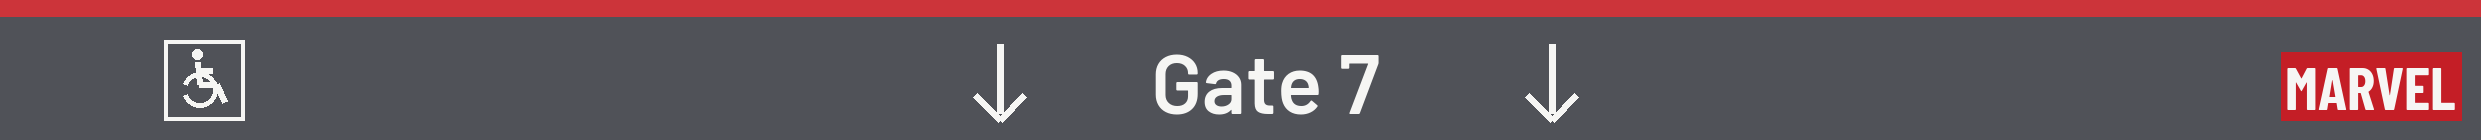
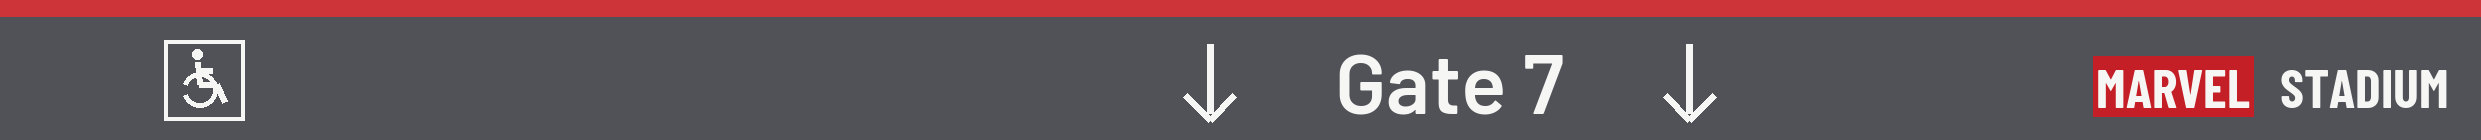
Marvel Gate 7: Nov 2026 exterior fixes and the Level 1 concourse behind the doors
Part of row 202. Plain cladding, MARVEL STADIUM sign wording, Gate 7 text and arrow spacing, slate column
labels and CCTV from Nov 2026 footage; the dark vestibule is replaced by the concourse floor, white ceiling
band with downlights, bulkhead and lower-tier railing.

Changed region(s): [[0.4655, 0.3714, 0.7138, 0.8571], [0.838, 0.3714, 0.9931, 0.8857], [0.3724, 0.6857, 0.4345, 0.8286]]

diff --git a/tools/grounds/marvel/gates.py b/tools/grounds/marvel/gates.py
@@ -352,38 +352,20 @@ def _stage1():
     # ------------------------------------------------------------ Gate 7 textures
     RED = (204, 52, 58)          # the red top stripes (sign band, booth headers, column wraps)
     SIGN_GREY = (80, 82, 88)
+    LABEL_SLATE = (78, 84, 104)  # the column labels are bluer than the band (vid2026_t422 sampled)
     WHITE = (246, 246, 244)
     CLAD = (150, 152, 158)
 
-    def tri_clad(name, W_, H_, px=80, seed=7):
-        """The triangle cladding (g7_doors2019, g7_ticketbay2019): light grey panels with faint joints, crossed
-        by long white lines 8 cm wide that meet at nodes. Tiles across, spans the full 4.6 m height."""
-        r = np.random.default_rng(seed)
+    def tri_clad(name, W_, H_, px=80):
+        """The cladding round the doors and booths: light grey panels with faint joints. The white line
+        graphic of 2019 (g7_doors2019, g7_ticketbay2019) is gone in Nov 2026 (vid2026_t422, t429, t441):
+        the walls and booth fronts are plain."""
         im = Image.new("RGB", (int(W_ * px), int(H_ * px)), CLAD)
         dr = ImageDraw.Draw(im)
         for x in np.arange(0, W_, 0.75):
             dr.line([(x * px, 0), (x * px, H_ * px)], fill=(140, 142, 148), width=1)
         for y in np.arange(0, H_, 1.15):
             dr.line([(0, y * px), (W_ * px, y * px)], fill=(140, 142, 148), width=1)
-        nodes = [(r.uniform(0, W_), r.uniform(0.3, H_ - 0.3)) for _ in range(9)]
-        ends = [(r.uniform(0, W_), 0.0) for _ in range(4)] + [(r.uniform(0, W_), H_) for _ in range(4)]
-
-        def wrap_d2(p, q):
-            return min(abs(q[0] - p[0] + s * W_) for s in (-1, 0, 1)) ** 2 + (q[1] - p[1]) ** 2
-        segs = []
-        for i, p in enumerate(nodes):
-            near = sorted(range(len(nodes)), key=lambda j: wrap_d2(p, nodes[j]))
-            for j in near[1:3]:
-                segs.append((p, nodes[j]))
-        for e in ends:
-            j = min(range(len(nodes)), key=lambda j: wrap_d2(e, nodes[j]))
-            segs.append((e, nodes[j]))
-        for (x0, y0), (x1, y1) in segs:
-            if abs(x1 - x0) > W_ / 2:                 # take the short way round the tile
-                x1 += W_ if x1 < x0 else -W_
-            for sh in (-W_, 0, W_):
-                dr.line([((x0 + sh) * px, (H_ - y0) * px), ((x1 + sh) * px, (H_ - y1) * px)], fill=WHITE,
-                        width=max(2, int(0.08 * px)))
         save_pil(name, im, (W_, H_))
 
     tri_clad("tri_clad", 6.0, 4.6)
@@ -474,15 +456,22 @@ def _stage1():
         dr = ImageDraw.Draw(im)
         dr.rectangle([0, 0, W_, int(0.08 * px)], fill=RED)
         wheelchair(dr, int(0.82 * px), int(0.20 * px), int(0.40 * px), WHITE)
-        dr.text((6.33 * px, 0.40 * px), "Gate 7", font=font("Barlow-SemiBold.ttf", 0.42 * px), fill=WHITE,
+        # Nov 2026 front view (vid2026_t422, scaled from columns C4, C3, C2): "Gate 7" centred 7.25 m in, caps
+        # 0.32 m tall, the first arrow 5.85 m in; the second sits behind C3 from there, placed symmetrically
+        dr.text((7.25 * px, 0.40 * px), "Gate 7", font=font("Barlow-SemiBold.ttf", 0.42 * px), fill=WHITE,
                 anchor="mm")
-        for ax in (5.0, 7.76):
+        for ax in (6.05, 8.45):  # left arrow 0.5 text-widths before the text (vid2026_t422 sign crop)
             arrow_down(dr, ax * px, 0.22 * px, 0.60 * px, WHITE, max(3, int(0.035 * px)))
-        mw, mh = int(0.90 * px), int(0.34 * px)
-        mx, my = W_ - mw - int(0.10 * px), int(0.26 * px)
+        # the west end reads "[MARVEL] STADIUM" (vid2026_t422, t452): the red box 0.80 m, then STADIUM 1.0 m wide
+        sw_ = int(1.00 * px)
+        sx_ = W_ - sw_ - int(0.08 * px)
+        mw, mh = int(0.80 * px), int(0.30 * px)
+        mx, my = sx_ - mw - int(0.06 * px), int(0.28 * px)
         dr.rectangle([mx, my, mx + mw, my + mh], fill=(196, 30, 38))
-        dr.text((mx + mw / 2, my + mh / 2), "MARVEL", font=font("BarlowCondensed-Bold.ttf", 0.30 * px), fill=WHITE,
+        dr.text((mx + mw / 2, my + mh / 2), "MARVEL", font=font("BarlowCondensed-Bold.ttf", 0.27 * px), fill=WHITE,
                 anchor="mm")
+        dr.text((sx_ + sw_ / 2, my + mh / 2), "STADIUM", font=font("BarlowCondensed-Bold.ttf", 0.27 * px),
+                fill=WHITE, anchor="mm")
         save_pil("gate7_sign", im, (sign_len, 0.70))
 
     gate7_sign()
@@ -491,19 +480,19 @@ def _stage1():
 
     def col_wrap(px=300):
         """The wrap on columns C4, C3, C2 (+2.87 to +3.58, measured against the sign in g7_doors2019): a red ring 0.17 m deep over a dark grey band with
-        "Gate" up the column and a large "7" (g7_doors2019, g7_west2019); three repeats round the column."""
+        a large "7" with "Gate" down the column to its right, on slate blue (vid2026_t422, t448); three repeats round the column."""
         w = WRAP_C / 3
         W_, H_ = int(w * px), int(0.71 * px)
-        im = Image.new("RGB", (W_, H_), SIGN_GREY)
+        im = Image.new("RGB", (W_, H_), LABEL_SLATE)
         dr = ImageDraw.Draw(im)
         dr.rectangle([0, 0, W_, int(0.17 * px)], fill=RED)
         g = Image.new("RGBA", (int(0.50 * px), int(0.22 * px)), (0, 0, 0, 0))
         ImageDraw.Draw(g).text((g.width / 2, g.height / 2), "Gate", font=font("Barlow-SemiBold.ttf", 0.17 * px),
                                fill=WHITE + (255,), anchor="mm")
-        g = g.rotate(90, expand=True)
-        im.paste(g, (int(0.19 * px), int(0.19 * px)), g)
-        dr.text((int(0.55 * px), int(0.44 * px)), "7", font=font("Barlow-SemiBold.ttf", 0.50 * px), fill=WHITE,
+        g = g.rotate(-90, expand=True)                  # reads top to bottom, right of the 7 (vid2026_t422, t448)
+        dr.text((int(0.30 * px), int(0.44 * px)), "7", font=font("Barlow-SemiBold.ttf", 0.50 * px), fill=WHITE,
                 anchor="mm")
+        im.paste(g, (int(0.45 * px), int(0.19 * px)), g)
         save_pil("col_wrap7", im, (w, 0.71))
 
     col_wrap()
@@ -608,16 +597,69 @@ def _stage1():
             face("dark_frame", [(*p0, Z(2.87)), (*p1, Z(2.87)), (*q1, Z(2.87)), (*q0, Z(2.87))], (0.0, 0.0, -1.0))
             face("col_red", [(*p0, Z(3.58)), (*p1, Z(3.58)), (*q1, Z(3.58)), (*q0, Z(3.58))], UP)
 
-    # --- the vestibule behind the doors and lanes (glass cut 335.34-349.09 in marvel.glb)
-    VB_E, VB_W, VD = 348.67, 336.2, -2.0
-    strip("interior_dark", VB_E, VB_W, 0.0, 2.30, VD)                                  # back wall
-    ms = marks(VB_E, VB_W)
+    # CCTV on C4, C3, C2 (vid2026_t422): two white box cameras under the soffit (+4.60), one looking straight
+    # out, one turned 60 degrees east, each on a short drop from the soffit
+    flat("cctv_white", (228, 228, 226), 2.0)
+    for key in ("C4", "C3", "C2"):
+        bc, (cx, cy) = COLS[key]
+        o = np.array(u(bc), float)
+        e = np.array([math.cos(math.radians(bc)), -math.sin(math.radians(bc))])
+        for d_ in (o, o * math.cos(math.radians(60)) + e * math.sin(math.radians(60))):
+            d_ = d_ / np.linalg.norm(d_)
+            c_ = np.array([cx, cy]) + d_ * (0.415 + 0.16)
+            hbox("cctv_white", c_, d_, 0.32, 0.15, 4.26, 4.42, bottom=True)
+            hbox("dark_frame", c_ + d_ * 0.165, d_, 0.01, 0.11, 4.28, 4.40)
+            hbox("cctv_white", np.array([cx, cy]) + d_ * 0.50, d_, 0.05, 0.05, 4.42, 4.60, top=False)
+
+    # --- the Level 1 concourse behind the doors and lanes (glass cut 335.34-349.09 in marvel.glb).
+    # Measured on the Jun 2019 indoor pano (S8e-zEW8Ht0ZIZPprEsBoA, camera P(342.5, r108.8)) and checked against
+    # the Nov 2026 concourse photo (white ceiling, round downlights): a flat white ceiling band at +3.00 runs
+    # 3.8 m in from the glass, ending in a white bulkhead up to +4.60; past it the underside of the Level 2 tier
+    # (marvel.glb). The concrete floor runs level to the bar railing at the back of the lower tier, r 100.
+    # Floor and ceiling run 1.5 degrees past each end of the cut so the view along the concourse never ends.
+    VB_E, VB_W = 348.67, 336.2
+    CC_E, CC_W = 350.6, 333.8
+    WB = -3.8                                                       # white ceiling band depth
+    flat("conc_floor", (120, 120, 118), 3.0)
+    flat("ceiling_white", (236, 236, 233), 1.5)
+    flat("lamp_lit", (255, 246, 228), 0.0)
+    flat("rail_dark", (46, 48, 50), 2.0)
+
+    def d_back(b):
+        return 100.0 - float(np.linalg.norm(glass(b, 0.0)))
+
+    ms = marks(CC_E, CC_W)
     for a, c in zip(ms, ms[1:]):
-        pa0, pc0, pa1, pc1 = glass(a, VD), glass(c, VD), glass(a, 0.0), glass(c, 0.0)
-        face("interior_floor", [(*pa0, Z(0.0)), (*pc0, Z(0.0)), (*pc1, Z(0.0)), (*pa1, Z(0.0))], UP)
-        face("interior_dark", [(*pa0, Z(2.30)), (*pc0, Z(2.30)), (*pc1, Z(2.30)), (*pa1, Z(2.30))], (0.0, 0.0, -1.0))
-    radial("interior_dark", VB_E, VD, 0.0, 0.0, 2.30, -1)                              # east end, facing in
-    radial("interior_dark", VB_W, VD, 0.0, 0.0, 2.30, +1)                              # west end, facing in
+        fa, fc = glass(a, -0.12), glass(c, -0.12)
+        ba, bc_ = glass(a, d_back(a)), glass(c, d_back(c))
+        face("conc_floor", [(*fa, Z(0.0)), (*fc, Z(0.0)), (*bc_, Z(0.0)), (*ba, Z(0.0))], UP)
+        wa, wc = glass(a, WB), glass(c, WB)
+        face("ceiling_white", [(*fa, Z(3.00)), (*fc, Z(3.00)), (*wc, Z(3.00)), (*wa, Z(3.00))], (0.0, 0.0, -1.0))
+    strip("ceiling_white", CC_E, CC_W, 3.00, 4.60, WB, inward=True)                 # bulkhead, facing in
+    strip("interior_dark", CC_E, CC_W, 2.30, 3.00, -0.12, inward=True)              # back of the sign band
+
+    # round downlights, 0.2 m, two rows 2.4 m apart along the band
+    n_lamp = max(1, int(span(CC_E, CC_W, -1.3) / 2.4))
+    for k in range(n_lamp):
+        for dd in (-1.3, -3.0):
+            bl = deg(CC_E, 1.2 + 2.4 * k, dd)
+            cpt = glass(bl, dd)
+            ring = [(cpt[0] + 0.1 * math.cos(t), cpt[1] + 0.1 * math.sin(t), Z(2.995))
+                    for t in np.linspace(0, 2 * math.pi, 13)[:-1]]
+            face("lamp_lit", ring, (0.0, 0.0, -1.0))
+
+    # the bar railing at the back of the lower tier: posts every 2 m, top rail at 1.0 m, mid rail at 0.5 m
+    rb = marks(CC_E, CC_W)
+    for a, c in zip(rb, rb[1:]):
+        pa, pc = glass(a, d_back(a)), glass(c, d_back(c))
+        dv = pc - pa
+        L = float(np.linalg.norm(dv))
+        for zz in (0.50, 0.97):
+            hbox("rail_dark", (pa + pc) / 2, dv, L, 0.05, zz, zz + 0.05, bottom=True)
+    n_post = int(span(CC_E, CC_W, d_back(342.0)) / 2.0)
+    for k in range(n_post + 1):
+        bp = deg(CC_E, 2.0 * k, d_back(342.0))
+        hbox("rail_dark", glass(bp, d_back(bp)), tang(bp), 0.05, 0.05, 0.0, 1.02)
 
     def rotor(b, d):
         """A full-height turnstile rotor: a steel post and three wings of horizontal bars, 0.5 m long."""
@@ -759,6 +801,9 @@ def _stage2(pkl):
                 nt.links.new(rd.outputs[0], b.inputs["Alpha"])
         b.inputs["Roughness"].default_value = 0.3 if "glass" in name else (0.4 if "steel" in name else 0.85)
         b.inputs["Metallic"].default_value = 1.0 if "steel" in name else 0.0
+        if name.endswith("_lit"):          # downlights: emissive, exported as glTF emissive + strength
+            b.inputs["Emission Color"].default_value = (1.0, 0.95, 0.86, 1.0)
+            b.inputs["Emission Strength"].default_value = 4.0
         mats[name] = m
         return m
 
